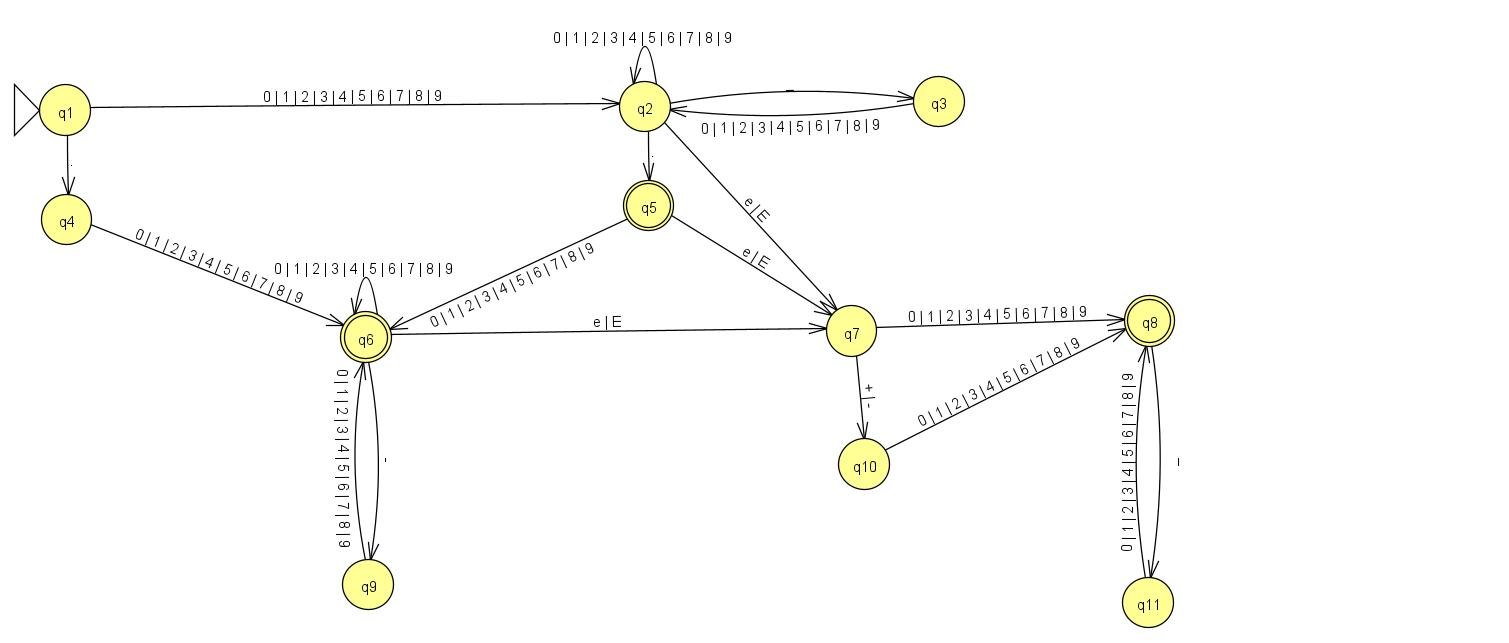
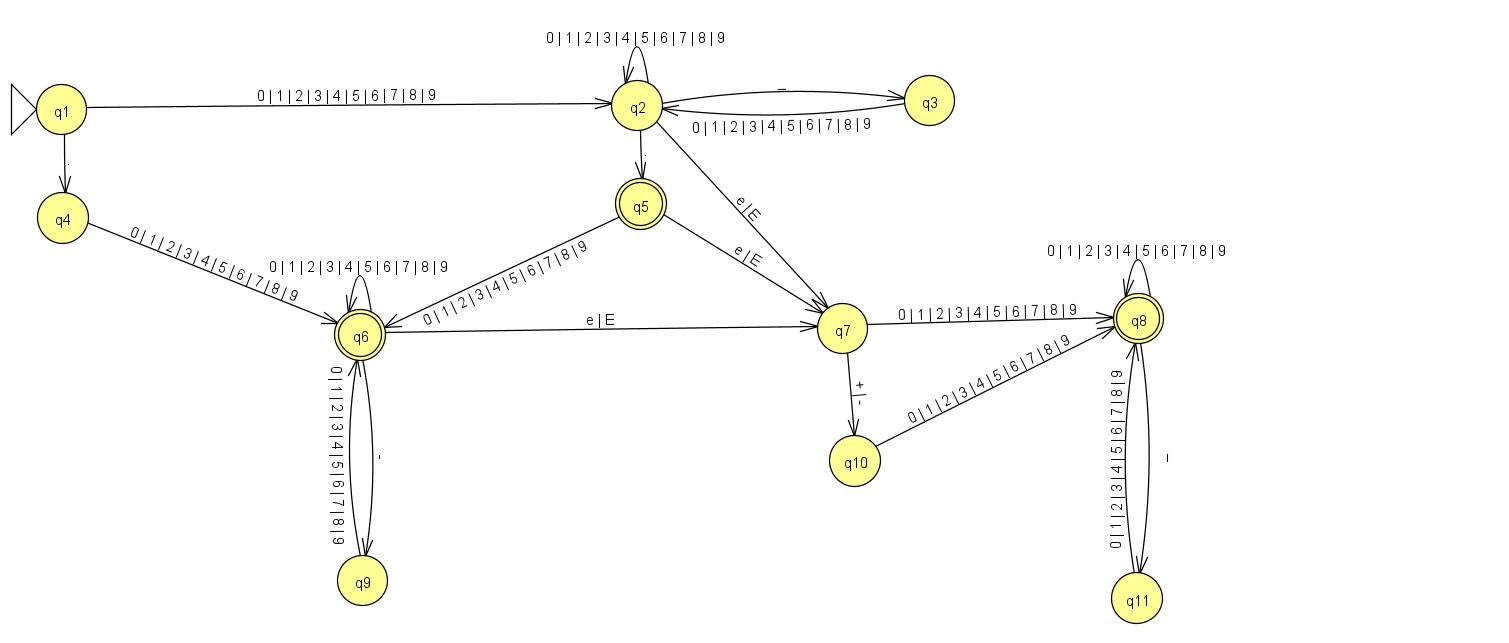
Recognize Floating Point Literals

diff --git a/FloatingPointDFA.py b/FloatingPointDFA.py
@@ -1,0 +1,34 @@
+class FloatingPointDFA:
+    states = {"q1", "q2", "q3", "q4", "q5", "q6", "q7", "q8", "q9", "q10", "q11", "q12" } # Set of States of decimal integer DFA
+    acceptstates = {"q5", "q6", "q8"} # Set of accept States of decimal integer DFA
+    start_state = "q1" # initial state
+    alphabet = {"0", "1", "2", "3", "4", "5", "6", "7", "8", "9", "_", ".", "E", "e", "+", "-"}
+    digit = alphabet - {"_",  ".", "E", "e", "+", "-"}
+    transition = {}
+
+    def __init__(self):
+        self.transition = { # transition function for all states
+            "q1": lambda c: "q2" if c in self.digit else("q4" if c=="." else "q12"), 
+            "q2": lambda c: "q2" if c in self.digit else("q3" if c=="_" else ("q5" if c=="." else ("q7" if c=="e" or c=="E"else "q12"))),
+            "q3": lambda c: "q2" if c in self.digit else "q12",
+            "q4": lambda c: "q6" if c in self.digit else "q12",
+            "q5": lambda c: "q6" if c in self.digit else("q7" if c=="e" or c=="E" else "q12"),
+            "q6": lambda c: "q6" if c in self.digit else("q7" if c=="e" or c=="E" else ("q9" if c=="_" else "q12")),
+            "q7": lambda c: "q8" if c in self.digit else("q10" if c=="+" or c=="-" else "q12"),
+            "q8": lambda c: "q8" if c in self.digit else("q11" if c=="_" else "q12"),
+            "q9": lambda c: "q6" if c in self.digit else "q12",
+            "q10": lambda c: "q8" if c in self.digit else "q12",
+            "q11": lambda c: "q8" if c in self.digit  else "q12",
+            "q12": lambda c: "q12"
+        }
+    
+    def accepts(self, str):
+        state = self.start_state # set start state
+        for char in str: # Step through characters in input
+            state = self.transition[state](char) # apply lambda based on state
+            
+        if state in self.acceptstates: 
+            return True # accept if final state is in accept states
+        else:
+            return False
+        

diff --git a/main.py b/main.py
@@ -1,22 +1,27 @@
 from DecIntDFA import DecIntDFA
 # from OctIntDFA import OctIntDFA
 # from HexIntDFA import HexIntDFA
+from FloatingPointDFA import FloatingPointDFA as FPDFA
 
 def main():
-    print("Please enter Decimal, Octal, or Hexadecimal integer literal to test validity.")
+    print("Please enter Numeric literal to test validity.")
     str = input(">>")
     decDFA = DecIntDFA()
     # octDFA = OctIntDFA()
     # hexDFA = HexIntDFA()
+    fpDFA = FPDFA()
     decAccepts = decDFA.accepts(str)
     # octAccepts = octDFA.accepts(str)
     # hexAccepts = hexDFA.accepts(str)
+    floatingAccepts = fpDFA.accepts(str)
     if(decAccepts):
         print("Decimal Integer Accepted")
     # elif(octAccepts):
     #     print("Octal Integer Accepted")
     # elif(hexAccepts):
     #     print("Hexadecimal Integer Accepted")
+    elif(floatingAccepts):
+        print("Floating Point Accepted")
     else:
         print("Rejected.")
     
